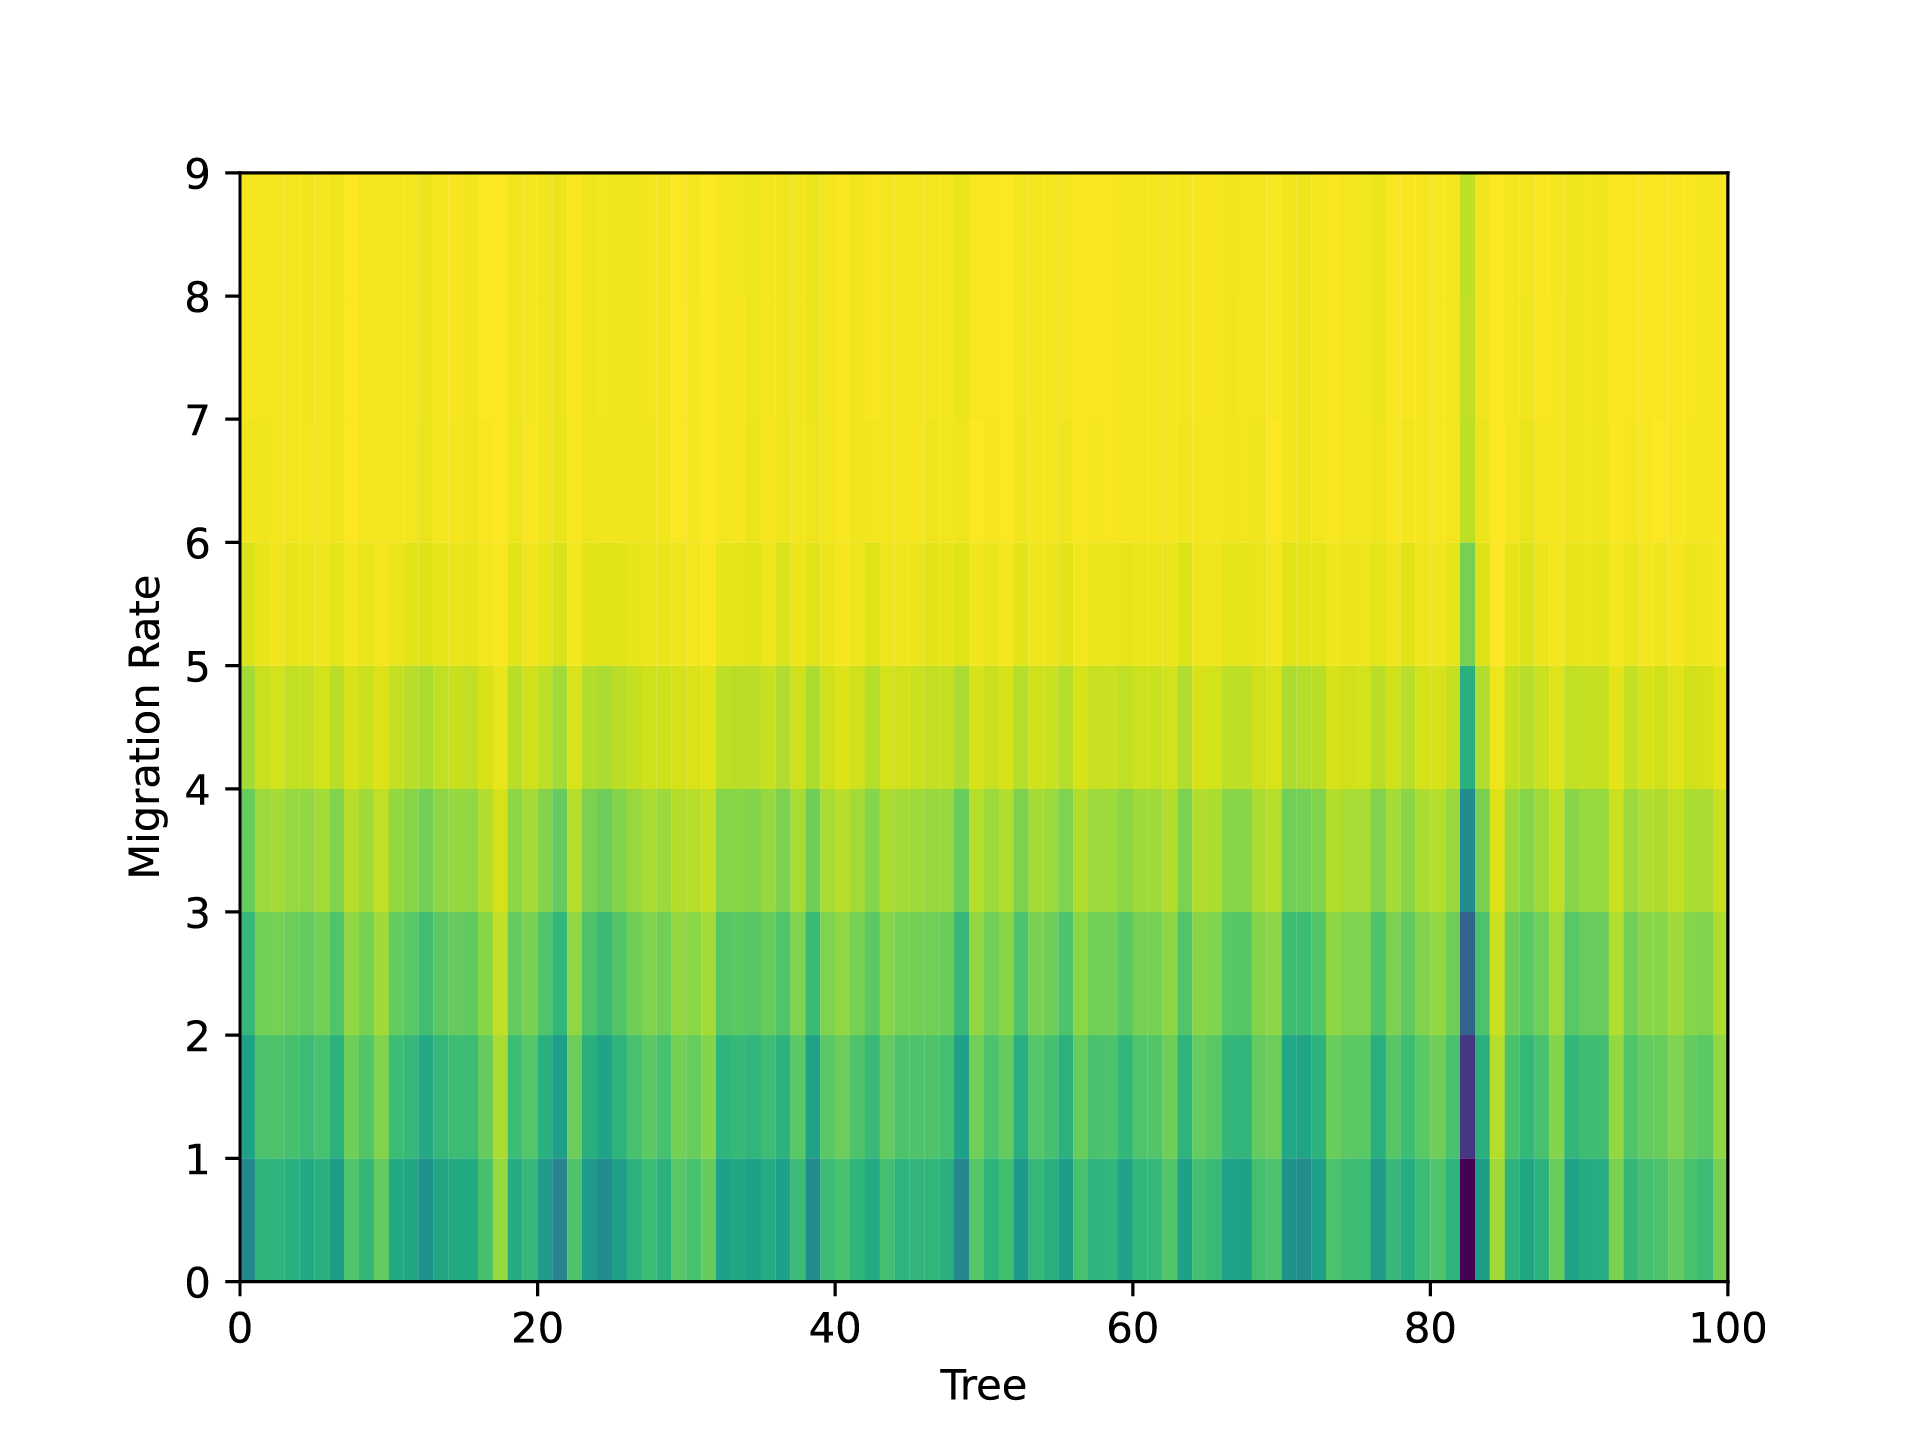
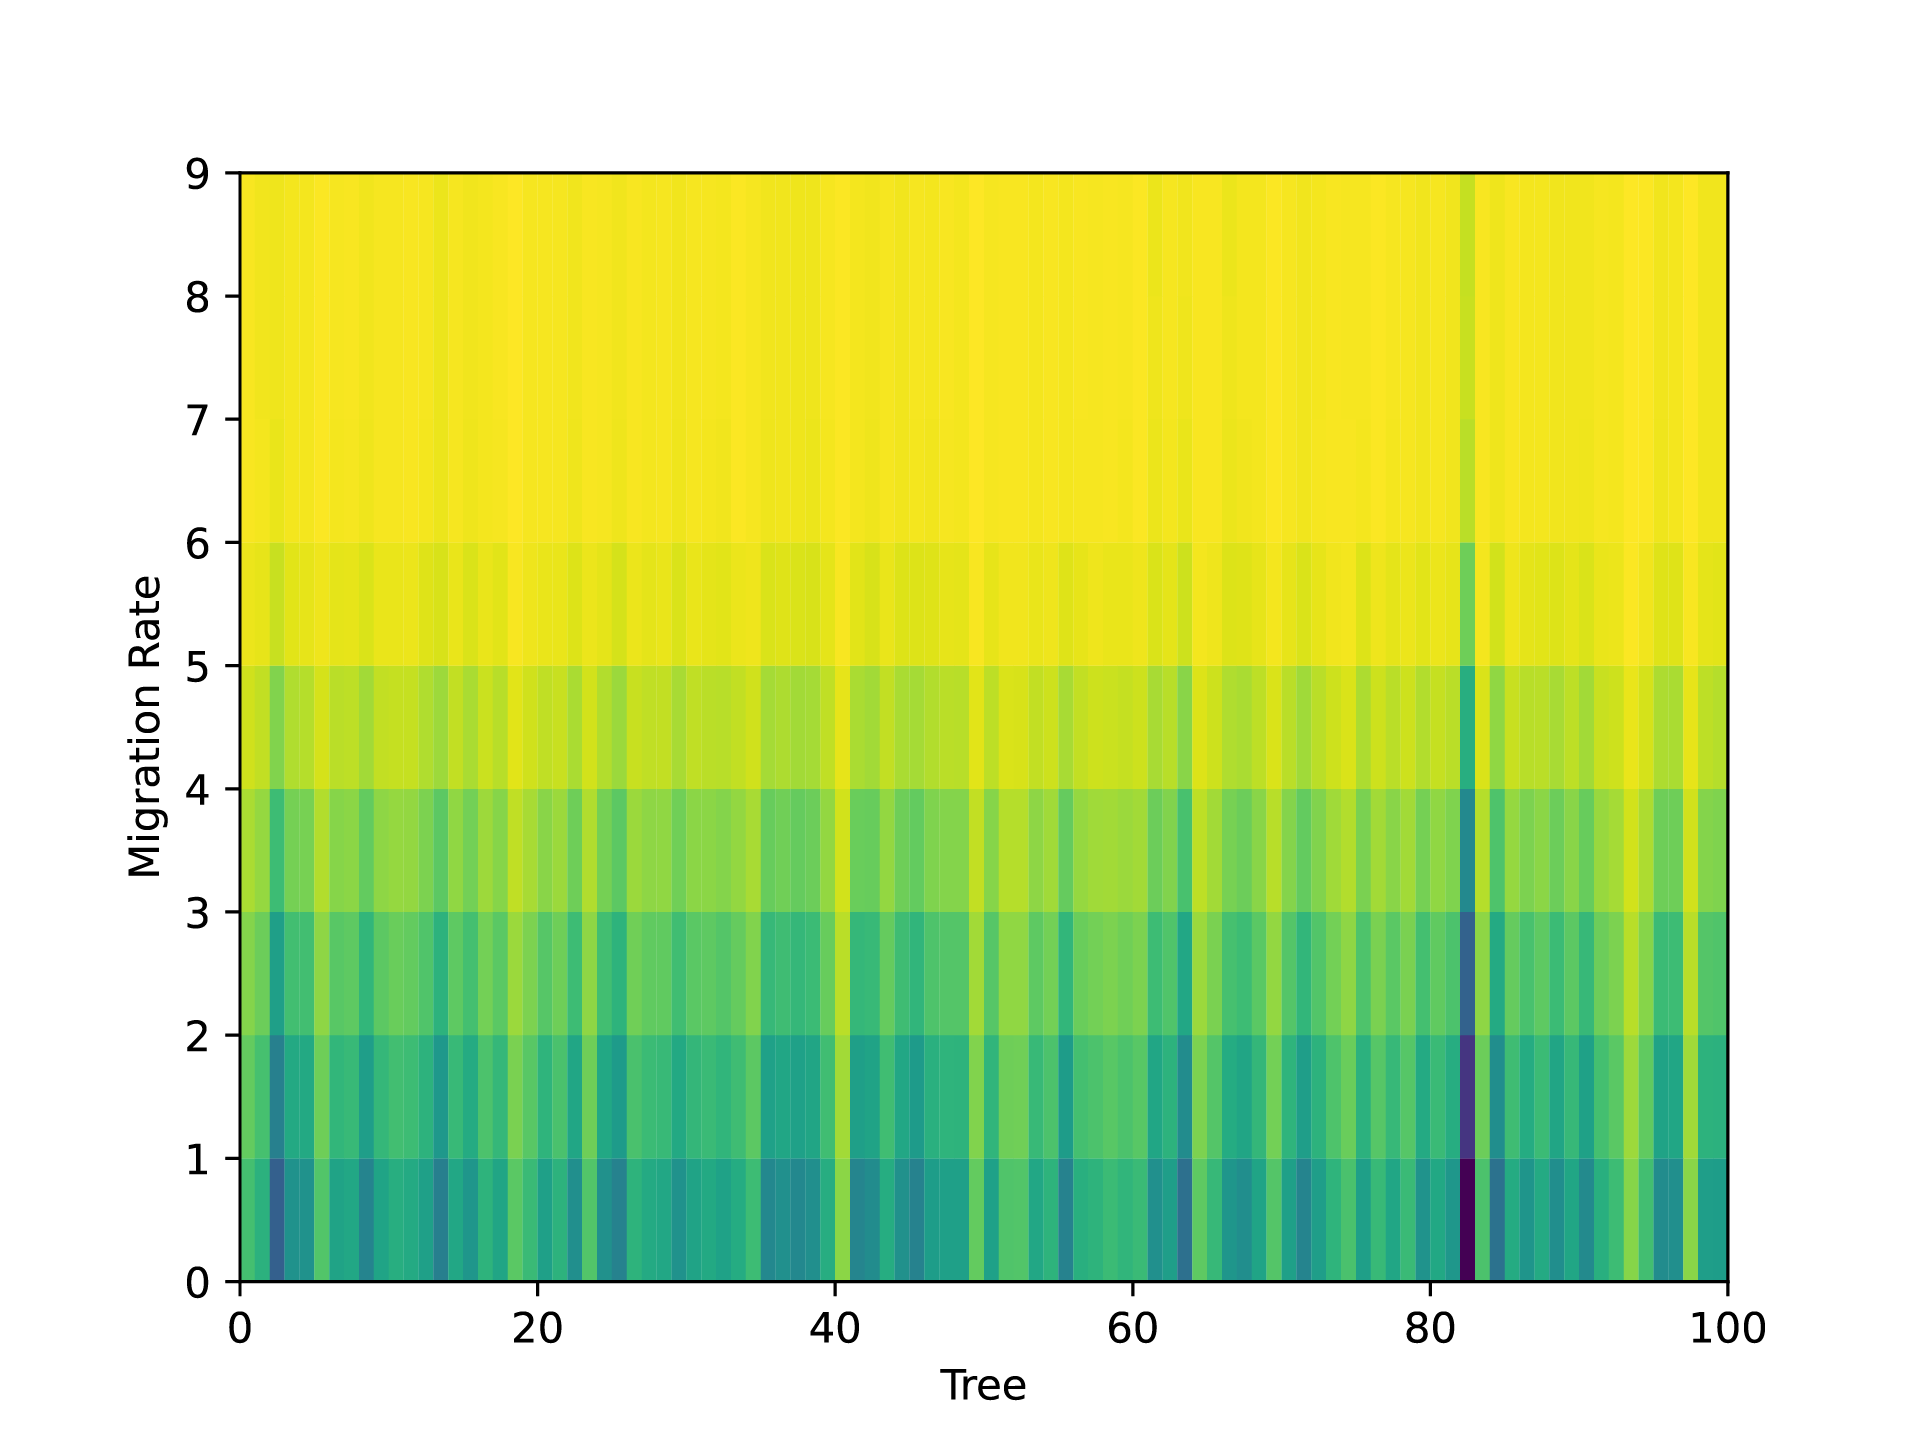
#6 and correction to `create_dataset_from_slim_output()`
While working on #6, I found out that there was a bug in `create_dataset_from_slim_output()` which misattributed samples to the wrong deme as the deme ID was changed during the tree simplification step. Corrected this and updated the selective sweep figure in devlog-20250113. This made the figure noisier but did not change the overall message about selection affecting effective migration rate estimates.

Changed region(s): [[0.125, 0.375, 0.6562, 0.9062], [0.6875, 0.375, 0.9062, 0.9062]]

diff --git a/terracotta/__init__.py b/terracotta/__init__.py
@@ -115,7 +115,7 @@ class WorldMap:
     
     get_neighbours_of_deme = get_neighbors_of_deme
 
-    def draw(self, color_demes=False, color_connections=False):
+    def draw(self, color_demes=False, color_connections=False, samples=None):
         """Draws the world map
 
         Uses matplotlib.pyplot
@@ -126,6 +126,8 @@ class WorldMap:
             Whether to color the demes based on type
         color_connections : bool
             Whether to color the connections based on type
+        samples : pd.DataFrame
+            (default=None, ignored)
         """
 
         if color_connections:
@@ -144,6 +146,11 @@ class WorldMap:
             plt.scatter(self.demes["xcoord"], self.demes["ycoord"], c=self.demes["type"], zorder=2, s=100)
         else:
             plt.scatter(self.demes["xcoord"], self.demes["ycoord"], zorder=2, color="grey")
+        if isinstance(samples, pd.DataFrame):
+            counts = samples["deme"].value_counts().reset_index()
+            counts = counts.merge(self.demes, how="left", left_on="deme", right_on="id").loc[:,["id", "xcoord", "ycoord", "count"]]
+            print(counts)
+            plt.scatter(counts["xcoord"], counts["ycoord"], color="orange", s=counts["count"]*50, zorder=3)
         plt.gca().set_aspect("equal")
         plt.axis("off")
         plt.show()
@@ -457,9 +464,7 @@ def create_grid_demography_dataset(
     ):
     """Creates a new dataset based on the specified grid metapopulation demographic model
 
-    Creates a directory at "output_directory" with a "demes.tsv", "samples.tsv", ".trees" files
-
-    TODO: Add a check for whether a directory exists already
+    Creates "demes.tsv", "samples.tsv", "trees/" folder with ".trees" files
 
     Parameters
     ----------
@@ -497,9 +502,29 @@ def create_grid_demography_dataset(
     )
 
 def create_dataset_from_slim_output(ts, side_length, gap_between_trees=1, num_random_samples=-1):
-    if num_random_samples != 1:
-        samples = list(np.random.choice(ts.samples(), num_random_samples, replace=False))
+    """Creates input files from SLiM simulation tree sequence
+
+    Creates "demes.tsv", "samples.tsv", "trees/" folder with ".trees" files
+
+    Parameters
+    ----------
+    ts : tskit.TreeSequence
+        The tree sequence output by the SLiM simulation
+    side_length : int
+        The number of demes along one side of the square grid demography
+    gap_between_trees : int
+        The gap between sampled trees in the tree sequence. (default=1 : all trees included)
+    num_random_samples : int
+        Simplify the tree sequence to this many samples. (default=-1 : ignored, all samples included)
+    """
+
+    if num_random_samples != -1:
+        samples = list(np.random.choice(list(ts.samples()), num_random_samples, replace=False))
         ts = ts.simplify(samples=samples)
+    _create_samples_file_from_tree_sequence(
+        ts=ts,
+        output_samples_path="samples.tsv"
+    )
     mkdir("trees")
     for i in range(0, ts.num_trees, gap_between_trees):
         tree = ts.at_index(i)
@@ -511,7 +536,4 @@ def create_dataset_from_slim_output(ts, side_length, gap_between_trees=1, num_ra
         number_of_deme_types=1,
         output_path="demes.tsv"
     )
-    _create_samples_file_from_tree_sequence(
-        ts=single_tree_ts,
-        output_samples_path="samples.tsv"
-    )
+    

diff --git a/world_map.py b/world_map.py
@@ -1,0 +1,16 @@
+import terracotta as tct
+import pandas as pd
+
+#tct._create_grid_demes_file(
+#    side_length=10,
+#    number_of_deme_types=1,
+#    output_path="demes.tsv"
+#)
+
+demes = pd.read_csv("datasets/mmr_3/demes.tsv", sep="\t")
+samples = pd.read_csv("datasets/mmr_3/samples.tsv", sep="\t")
+
+world_map = tct.WorldMap(demes=demes)
+
+world_map.draw(samples=samples)
+

diff --git a/devlog/logs/20250113.md b/devlog/logs/20250113.md
@@ -36,4 +36,4 @@ I'm curious how the tree corresponding with the sweep differs from the neutral t
 
 One issue with this setup is that many of the trees are not very converged. Over half of the samples in each tree lack an edge above, which means that they are ultimately ignored from that tree's analysis. In some ways, the lack of coalescence is informative; the fact that it's missing means that migration rates are probably lower than if we completely remove them. At the moment, `terracotta` does not have a way of taking this into account, and I'm not sure how that would be done. To ensure that trees are fully coalesced, while also not having to wait an extremely long time in SLiM, I can do some sort of recapitation with `msprime`. I'll need to look into this.
 
-What information does the migration map give that an allele presence/absence or frequency map does not? The biggest difference is the time component. The fact that you see an allele in one area but no where else could be that the allele is relatively new. If it has sweeped up to high frequency in that area and no where else, then you can start to question what's so special there, but the migration map more explicitly tells you that the dynamics of that allele are different than what is seen in the rest of the genome.
+What information does the migration map give that an allele presence/absence or frequency map does not? The biggest difference is the time component. The fact that you see an allele in one area but no where else could be that the allele is relatively new. If it has swept up to high frequency in that area and no where else, then you can start to question what's so special there, but the migration map more explicitly tells you that the dynamics of that allele are different than what is seen in the rest of the genome.

diff --git a/devlog/logs/20241202.md b/devlog/logs/20241202.md
@@ -30,6 +30,8 @@ Here, $L_L(x)$ is the likelihood that the left child is in state $x$; $L_R(x)$ i
 
 $$L_{\text{tree}} = \sum_{x \in \text{demes}}{L_{\text{root}}(x)}$$
 
+$$L_{\text{Q}} = \prod_{t \in \text{trees}}{L_{\text{t}}}$$
+
 Once the likelihoods are propagated up to the root, the sum of the likelihoods across all of the demes is equal to the likelihood of the tree given the transition matrix. Next, `terracotta` multiplies the likelihoods of many independent trees given a transition matrix to compute a likelihood of the transition matrix. We then can compare the likelihoods of many transition matrices to determine which is most likely.
 
 Before we get too far into that, I needed a way to generate independent trees under a demographic model. Originally, I had thought to turn to SLiM as that is what I used for my previous research on applying Brownian motion to ARGs. SLiM is a forward in time simulator that is flexible for simulating under many different scenarios including spatial processes and selection. One issue that comes up when simulating trees with SLiM is that you need to run the simulations for a long time for all samples to coalesce (a requirement of `terracotta` for the time being). You can use `msprime` (a Python package) to recapitate your trees, but this is an extra step. I realized that it would be much simpler to use `msprime` for all of my simulation needs.
